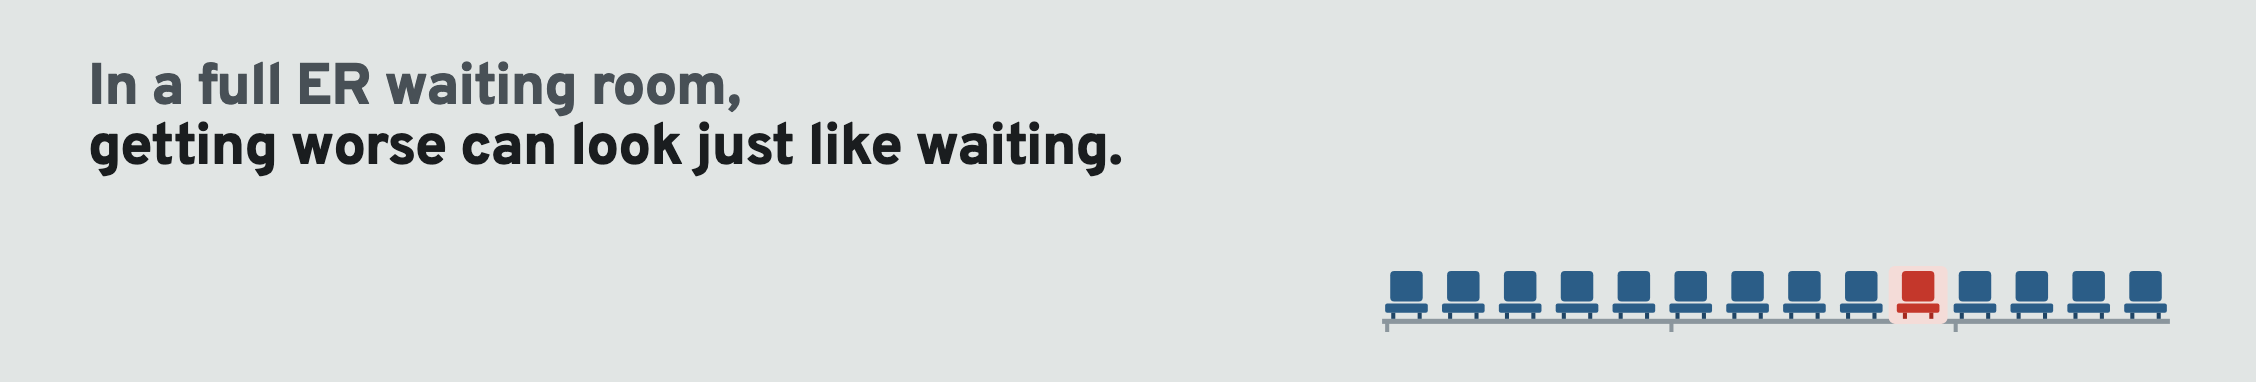
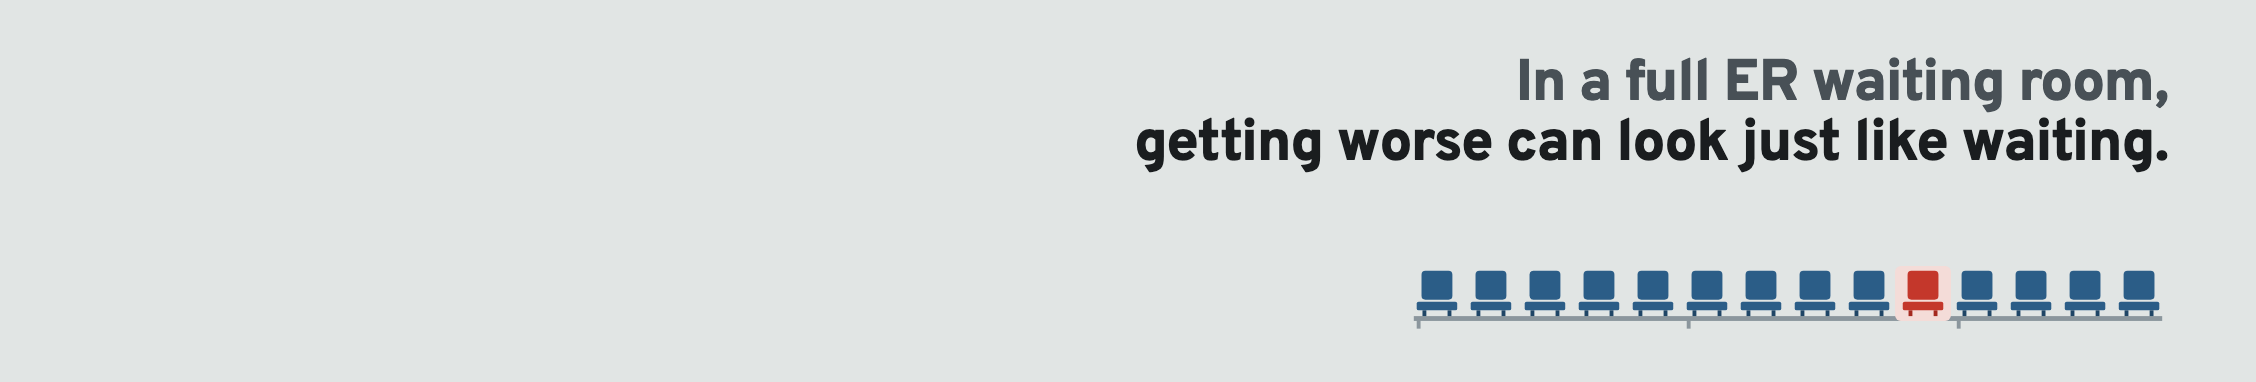
LinkedIn cover: move the headline and chairs to the right
The company page logo covers the left side of the cover.

diff --git a/brand/build/linkedin.html b/brand/build/linkedin.html
@@ -17,11 +17,11 @@
   .bank { position: absolute; }
   .bank svg { display: block; width: 100%; height: auto; }
 
-  /* company page cover, 1128 x 191: the logo overlaps the bottom left */
+  /* company page cover, 1128 x 191: the page logo covers the left side, so everything sits right */
   #company { width: 1128px; height: 191px; }
-  #company .tag { position: absolute; left: 44px; top: 30px; font-size: 29px; width: 640px; }
+  #company .tag { position: absolute; right: 44px; top: 28px; font-size: 29px; width: 640px; text-align: right; }
   #company .meta { position: absolute; left: 44px; top: 118px; font-size: 15px; display: none; }
-  #company .bank { right: 40px; bottom: 22px; width: 400px; }
+  #company .bank { right: 44px; bottom: 24px; width: 380px; }
 
   /* personal profile background, 1584 x 396: the photo covers the bottom left */
   #personal { width: 1584px; height: 396px; }

diff --git a/brand/linkedin/README.md b/brand/linkedin/README.md
@@ -8,7 +8,7 @@ Everything needed to set up the PrIAge company page and to add PrIAge to a perso
 | --- | --- | --- |
 | `priage-linkedin-logo-400.png` | Company page logo | The IA heartbeat mark on seat blue. Reads at feed size, where the page name already sits beside it. |
 | `priage-linkedin-logo-wordmark-400.png` | Alternate company logo | Full wordmark on white. Small in the feed; use it only if the team prefers the name in the square. |
-| `priage-linkedin-company-cover-1128x191@2x.png` | Company page cover | 2256 x 382, twice LinkedIn's 1128 x 191 for sharpness. The headline sits top left, clear of the logo that overlaps the bottom left. |
+| `priage-linkedin-company-cover-1128x191@2x.png` | Company page cover | 2256 x 382, twice LinkedIn's 1128 x 191 for sharpness. The headline and chairs sit on the right half; the page logo covers the left side. |
 | `priage-linkedin-profile-banner-1584x396@2x.png` | Each teammate's personal profile background | 3168 x 792, twice LinkedIn's 1584 x 396. Everything sits right of the round profile photo. |
 
 Source: `brand/build/linkedin.html`. Render one image with headless Chrome at 2x, for example `linkedin.html#company` at 1128 x 191 (`#personal`, `#logo-icon`, `#logo-word` for the others).
